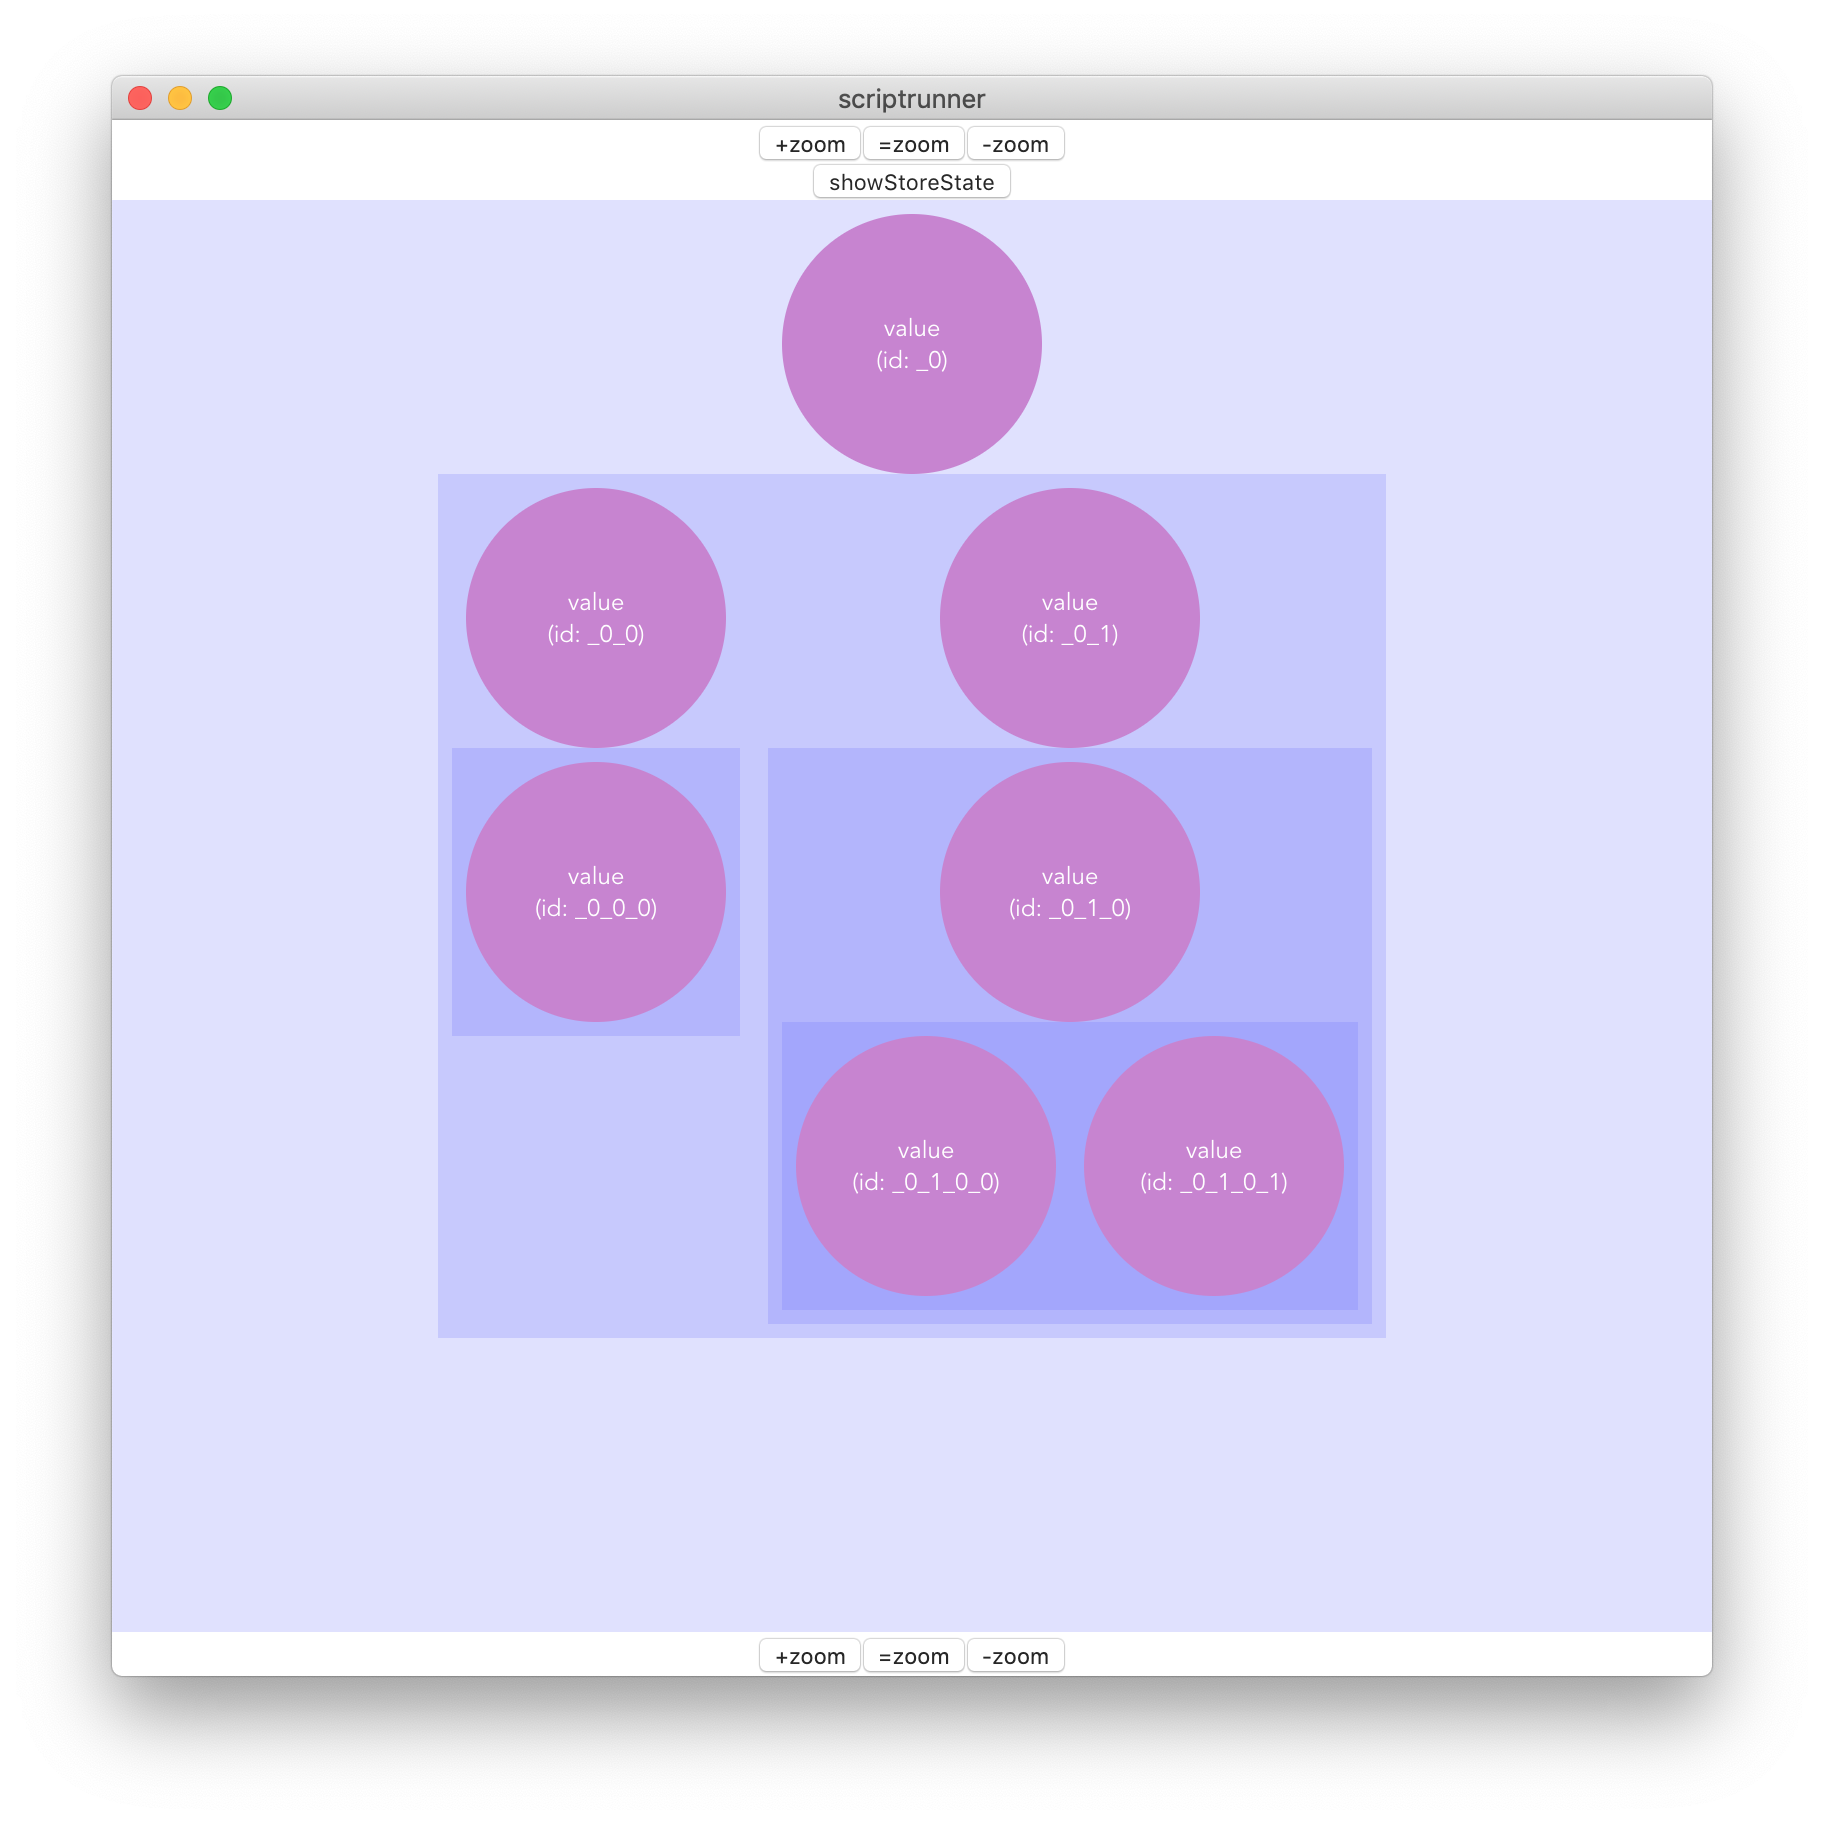
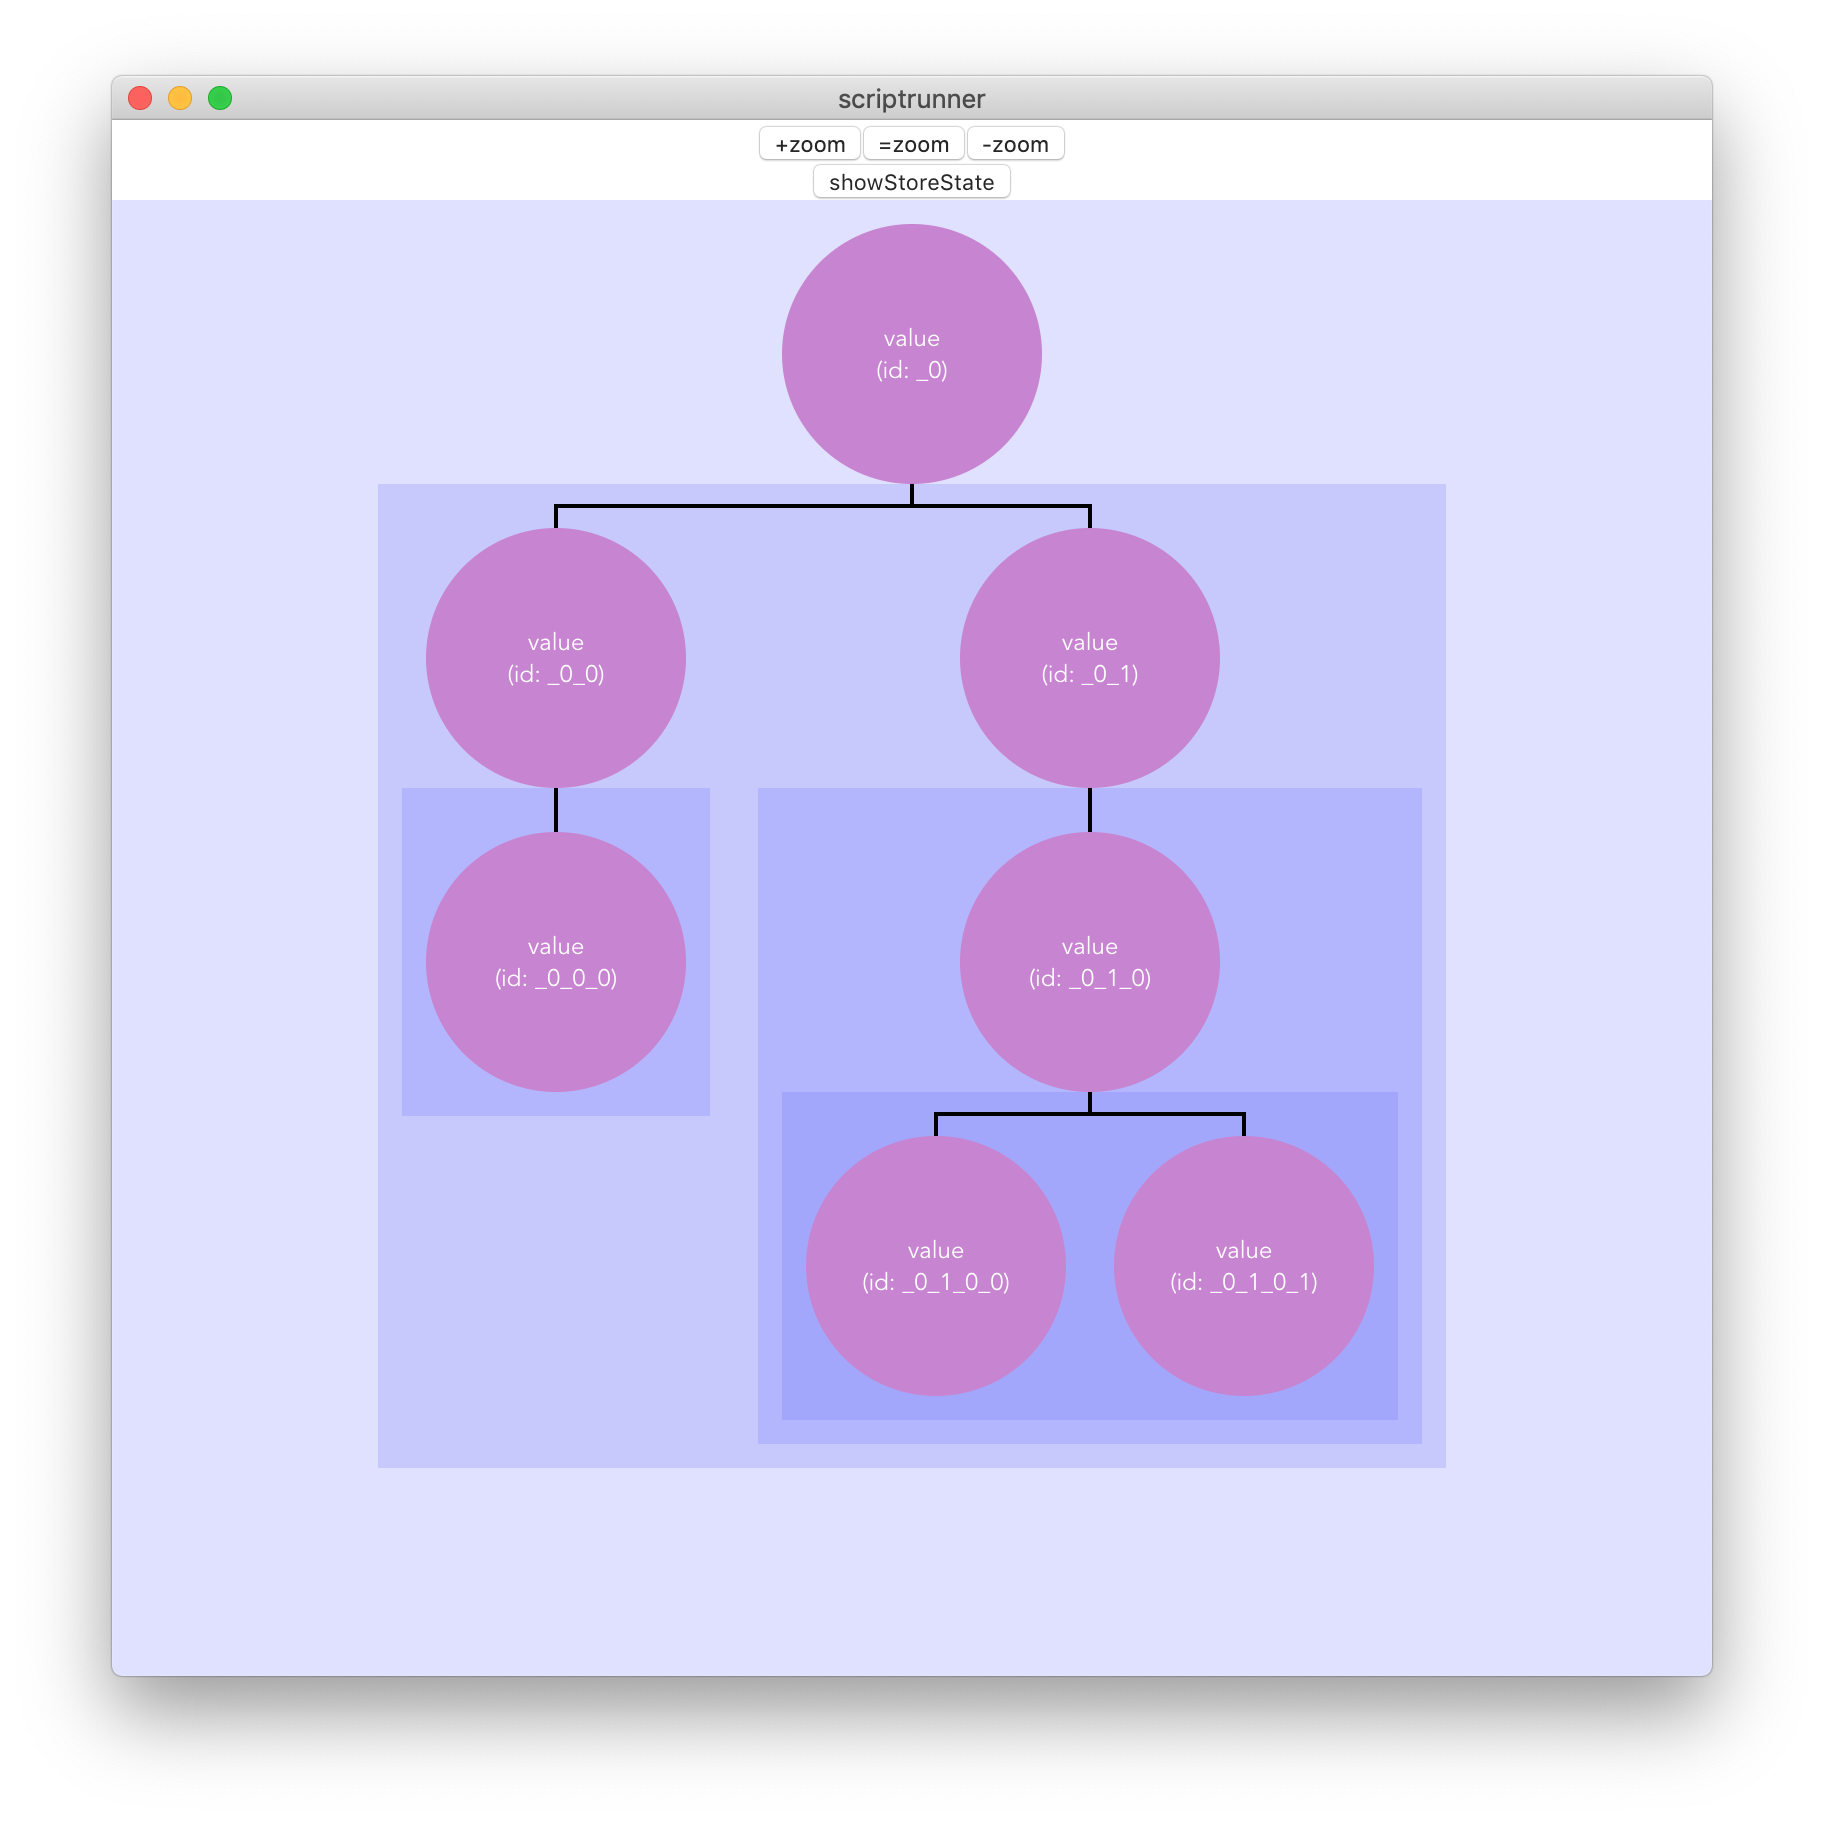
Added hierarchical lines and minor changes.

diff --git a/src/components/nodeRow.vue b/src/components/nodeRow.vue
@@ -18,7 +18,7 @@ Read: https://vuejs.org/v2/guide/components-edge-cases.html#Circular-References-
 export default {
 	name: 'nodeRow',
 	components: {
-		node: () => import('@/components/node.vue') /*  Read 'Circular reference note' above.  */
+		node: () => import('@/components/node.vue') /* Read 'Circular reference note' above. */
 	},
 	props: [
 		'nodeRow'
@@ -29,7 +29,7 @@ export default {
 </script>
 
 <style lang="scss">
-$nodeRowPadding: 10px;
+@import '@/sass/config.scss';
 
 .nodeRow {
 	background-color: rgba(100,100,255,0.2); /* This is a transluscent color, it is used to see the tree hierarchy. */
@@ -38,6 +38,22 @@ $nodeRowPadding: 10px;
 	/* To create tree, .node must be inline-block, see the docs. */
 	white-space: nowrap; /* Whithout this the tree is unordered when there is not enough space. */
 	overflow: auto;
+
+	/* To create hierarchy lines, this is the vertical line from .nodeRow to its parent. */
+	padding-top: $nodeRow_padding;
+	position: relative;
+	&:before {
+		content: '';
+		position: absolute;
+		top: 0;
+		left: calc(50% - #{$hierarchy_line_width/2});
+		width: 0;
+		height: $nodeRow_padding;
+		border-left: $hierarchy_line_width solid $hierarchy_line_color;
+	}
+	&:after {
+		content: '';
+	}
 
 	/* To create tree using flex see https://github.com/caballerofelipe/vuejs_tree/blob/master/README.md#using-css-for-the-tree. */
 }

diff --git a/src/components/node.vue b/src/components/node.vue
@@ -8,7 +8,7 @@
 			{{node.nodeValue}}<br>(id: {{node.id}})
 		</div>
 		<nodeRow
-			v-if='node.processTree'
+			v-if='node.processTree && node.processTree.length'
 			v-bind:nodeRow='node.processTree'
 		/>
 	</div>
@@ -62,15 +62,41 @@ export default {
 }
 </script>
 
-<style>
+<style lang="scss">
+@import '@/sass/config.scss';
+
 .node {
-	padding: 5px;
-	margin: 2px;
+	padding: $node_padding;
 	font-size:12px;
 
 	/* For tree creation. */
 	display: inline-block;
 	vertical-align: top;
+
+	/* To show hierarchy lines. */
+	/* To create hierarchy lines, these are the lines from element to horizontal connecting line and the vertical connecting line. */
+	position: relative;
+	&:before, &:after {
+		content: '';
+		position: absolute;
+		top: 0;
+		left: 0;
+		width: 50%;
+		height: $node_padding;
+	}
+	&:after {
+		left: calc(50% - #{$hierarchy_line_width/2});
+		border-left: $hierarchy_line_width solid $hierarchy_line_color;
+	}
+	&:not(:first-child):before,
+	&:not(:last-child):after {
+		border-top: $hierarchy_line_width solid $hierarchy_line_color;
+		height: calc(#{$node_padding} - #{$hierarchy_line_width}); /* To avoid having the line on top of the node. */
+	}
+	&:last-child:after {
+		width: 0px; /* Necessary to avoid nodeRow horizontal scrolling. */
+	}
+
 }
 .nodeBubble {
 	background-color: rgba(200,130,210);

diff --git a/src/views/Tree.vue b/src/views/Tree.vue
@@ -62,6 +62,19 @@ export default {
 #treeZone {
 	overflow: hidden; /* Used to make the interface fixed to that nothing moves from its place and for zoom. */
 	flex-grow: 2; /* When the content is small this allows the block to grow and take al available space. */
+
+	/* When displaying hierarchy lines this hides the lines for the first row elements and removes unnecessary space before. */
+	> .nodeRow {
+		padding: 0;
+		&:before, &:after {
+			border: 0;
+		}
+		> .node {
+			&:before, &:after {
+				border: 0;
+			}
+		}
+	}
 }
 
 #debug_button {

diff --git a/src/store/index.js b/src/store/index.js
@@ -1,6 +1,6 @@
 import Vue from 'vue'
 import Vuex from 'vuex'
-// Change between large and small processTree, use processTree.{small,large,large.oneParent}
+// Change between large and small processTree, use processTree.{small,small.oneParent,large,large.oneParent}
 import processTree from './processTree/processTree.small.oneParent'
 
 Vue.use(Vuex)

diff --git a/src/main.js b/src/main.js
@@ -12,7 +12,5 @@ window.theStore = store; /* FCG: WARNING for debugging purposes. */
 window.vueEL = new Vue({
   router,
   store,
-  render: h => h(App, {
-    // props: {} // Additional stuff for the component
-  })
+  render: h => h(App)
 }).$mount('#app')

diff --git a/src/sass/config.scss b/src/sass/config.scss
@@ -1,0 +1,7 @@
+@use "sass:math";
+$hierarchy_line_color: #000;
+$hierarchy_line_width: 2px;
+
+$nodeRow_padding: 10px;
+$node_padding_to_line: 10px;
+$node_padding: $node_padding_to_line + $hierarchy_line_width;

diff --git a/README.md b/README.md
@@ -42,6 +42,7 @@ This is what this project *should* do (*some parts are already working*):
 - Drag and drop nodes to that their parent can be changed.
 - Add nodes under another node.
 - Add other root nodes, this would create multple trees.
+- Add lines to join the bottom of the parent node to the top of a node creating a hierarchical structure.
 
 ## Project setup
 Using instructions from [Vue CLI Plugin Electron Builder](https://github.com/nklayman/vue-cli-plugin-electron-builder) and from Vue.js.
